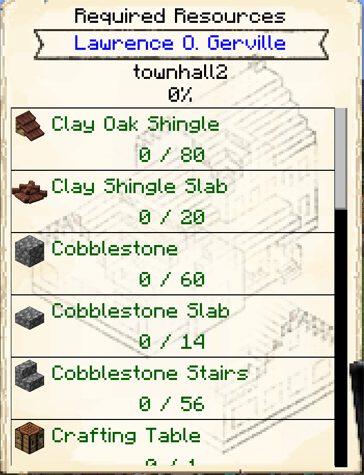
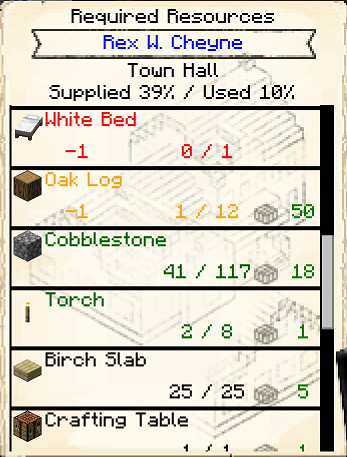
Resource Scroll update (#818)

diff --git a/pages/src/source/items/resourcescroll.md b/pages/src/source/items/resourcescroll.md
@@ -19,8 +19,10 @@ When you first make the resource scroll, if you right-click anywhere you will ge
 <p style="text-align:center;"><img src="../../assets/images/misc/resourcebuilderinitmessage.png" alt="Resource Scroll Initial Message"></p>
 <br>
 
-Now when you right-click while holding the resource scroll, you will see all the needed materials for the Builder's Hut you clicked on.
+Now when you right-click while holding the resource scroll, you will see all the needed materials for the Builder's Hut you clicked on. Each needed item is displayed, along with how many of that item is in the hut's inventory, and how many are needed. These amounts will change as the Builder places blocks and will show only what blocks the Builder still needs to place. The blocks in black are in their inventory. The blocks in red are the ones neither you nor the Builder has in their inventory. The blocks in green are ones you have in inventory but the Builder needs. Yellow blocks means you have some of the necessary resource, but not enough.
 
 <br>
 <p style="text-align:center;"><img src="../../assets/images/gui/resourcescrollgui.png" alt="Resource Scroll GUI"></p>
 <br>
+
+If you go to a [Warehouse](../../source/buildings/warehouse) and right-click the resource scroll on the Warehouse hut, the resource scroll will show you how many of each item is currently stored in that Warehouse. This will be in green to the far right of each block.
